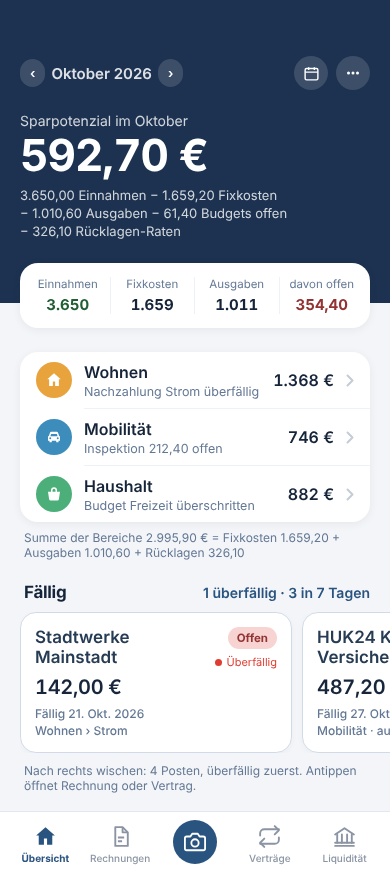
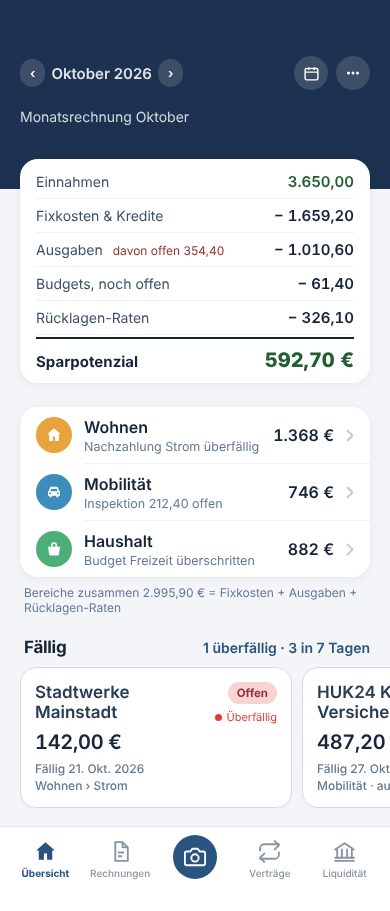
Konzept 2.0.0: Übersicht zeigt Monatsrechnung als Tabelle statt Hero-Zahl und Formeltext
Einnahmen − Fixkosten − Ausgaben (davon offen) − Budgets offen − Rücklagen-Raten = Sparpotenzial,
alles in einer Karte, antippbar zur Monatsrechnung; Wisch-Hinweis entfernt, Prüfsummen-Notiz gekürzt.

Claude-Session: https://claude.ai/code/session_0112K5J9EfnvdznECFdoQGko

diff --git a/docs/konzept-2.0.0/design/Main.dc.html b/docs/konzept-2.0.0/design/Main.dc.html
@@ -32,6 +32,14 @@ body{margin:0}
 .f .l{margin:0;font-size:14px;color:#637894;width:104px;flex:none}
 .f .v{margin:0;font-size:15px;font-weight:500;flex:1;min-width:0;white-space:normal;overflow:hidden;display:-webkit-box;-webkit-line-clamp:2;-webkit-box-orient:vertical;line-height:1.3}
 .f .v.ph{color:#9AA5B4;font-weight:400}
+.kr{display:flex;align-items:baseline;justify-content:space-between;gap:12px;padding:7px 0;border-bottom:1px solid #EEF1F5}
+.kr:last-child{border-bottom:0}
+.kr .kl{margin:0;font-size:14px;color:#3E5068;white-space:nowrap;overflow:hidden;text-overflow:ellipsis}
+.kr .ks{font-size:12px;color:#943333;margin-left:6px}
+.kr .kv{margin:0;font-size:15px;font-weight:600;font-variant-numeric:tabular-nums;white-space:nowrap}
+.kr.sum{border-top:2px solid #16243A;border-bottom:0;margin-top:2px;padding-top:9px}
+.kr.sum .kl{font-size:15px;font-weight:700;color:#16243A}
+.kr.sum .kv{font-size:20px;font-weight:800;color:#215F33}
 .f .vc{flex:1;min-width:0}
 .f .vc .v{flex:none;-webkit-line-clamp:1;white-space:nowrap;text-overflow:ellipsis;display:block}
 .f .v2{margin:2px 0 0;font-size:13px;font-weight:400;color:#637894;line-height:1.3;white-space:normal}
@@ -56,7 +64,8 @@ select.in{appearance:none;-webkit-appearance:none;padding-right:14px}
 .chev{width:8px;height:13px;flex:none}
 .cap{display:inline-flex;align-items:center;height:22px;padding:0 9px;border-radius:11px;font-size:11.5px;font-weight:700;white-space:nowrap}
 .seg{display:flex;background:#EEF1F5;border-radius:9px;padding:2px}
-.seg button{flex:1;text-align:center;font-size:13px;font-weight:600;color:#637894;padding:6px 0;border-radius:7px;border:0;background:none;font-family:inherit;cursor:pointer}
+.f .seg{flex:1;min-width:0}
+.seg button{flex:1;min-width:0;text-align:center;font-size:13px;font-weight:600;color:#637894;padding:6px 4px;white-space:nowrap;overflow:hidden;text-overflow:ellipsis;border-radius:7px;border:0;background:none;font-family:inherit;cursor:pointer}
 .seg button.on{background:#FFFFFF;color:#16243A;box-shadow:0 1px 2px rgba(0,0,0,.08)}
 .seg.dark{background:rgba(255,255,255,.14)}
 .seg.dark button{color:rgba(255,255,255,.8)}
@@ -111,19 +120,17 @@ a{color:#2A5480}
       <a href="Mehr.dc.html" aria-label="Mehr" style="width: 34px; height: 34px; border-radius: 17px; background: rgba(255,255,255,.14); color: #FFFFFF; display: inline-flex; align-items: center; justify-content: center; text-decoration: none"><svg aria-hidden="true" width="18" height="18" viewBox="0 0 24 24" fill="currentColor"><circle cx="6" cy="12" r="2"/><circle cx="12" cy="12" r="2"/><circle cx="18" cy="12" r="2"/></svg></a>
       </div>
     </div>
-    <p style="margin: 22px 0 0; font-size: 14px; opacity: .8">{{headline}}</p>
-    <p style="margin: 4px 0 0; font-size: 44px; font-weight: 700; letter-spacing: -1px; line-height: 1; font-variant-numeric: tabular-nums">{{spar}} €</p>
-    <p style="margin: 10px 0 0; font-size: 13px; opacity: .8; white-space: nowrap">{{formula}}</p>
-    <p style="margin: 2px 0 0; font-size: 13px; opacity: .8; white-space: nowrap">{{formula2}}</p>
-    <p style="margin: 2px 0 0; font-size: 13px; opacity: .8; white-space: nowrap">{{formula3}}</p>
+    <p style="margin: 18px 0 0; font-size: 14px; opacity: .8">{{headline}}</p>
   </div>
 
-  <div style="padding: 0 20px; margin-top: -40px">
-    <a href="Monatsrechnung.dc.html" class="card" style="display: grid; grid-template-columns: repeat(4, minmax(0, 1fr)); gap: 0; padding: 14px 6px; text-decoration: none; color: inherit">
-      <div style="text-align: center; border-right: 1px solid #EEF1F5"><p style="margin: 0; font-size: 11.5px; color: #637894">Einnahmen</p><p style="margin: 4px 0 0; font-size: 15px; font-weight: 700; font-variant-numeric: tabular-nums; color: #215F33">{{k.ein}}</p></div>
-      <div style="text-align: center; border-right: 1px solid #EEF1F5"><p style="margin: 0; font-size: 11.5px; color: #637894">Fixkosten</p><p style="margin: 4px 0 0; font-size: 15px; font-weight: 700; font-variant-numeric: tabular-nums">{{k.fix}}</p></div>
-      <div style="text-align: center; border-right: 1px solid #EEF1F5"><p style="margin: 0; font-size: 11.5px; color: #637894">Ausgaben</p><p style="margin: 4px 0 0; font-size: 15px; font-weight: 700; font-variant-numeric: tabular-nums">{{k.aus}}</p></div>
-      <div style="text-align: center"><p style="margin: 0; font-size: 11.5px; color: #637894">davon offen</p><p style="margin: 4px 0 0; font-size: 15px; font-weight: 700; font-variant-numeric: tabular-nums; color: #943333">{{k.offen}}</p></div>
+  <div style="padding: 0 20px; margin-top: -30px">
+    <a href="Monatsrechnung.dc.html" class="card" style="display: block; padding: 6px 16px 4px; text-decoration: none; color: inherit">
+      <div class="kr"><p class="kl">Einnahmen</p><p class="kv" style="color: #215F33">{{k.ein}}</p></div>
+      <div class="kr"><p class="kl">Fixkosten &amp; Kredite</p><p class="kv">− {{k.fix}}</p></div>
+      <div class="kr"><p class="kl">Ausgaben <span class="ks">davon offen {{k.offen}}</span></p><p class="kv">− {{k.aus}}</p></div>
+      <div class="kr"><p class="kl">Budgets, noch offen</p><p class="kv">− {{k.bud}}</p></div>
+      <div class="kr"><p class="kl">Rücklagen-Raten</p><p class="kv">− {{k.res}}</p></div>
+      <div class="kr sum"><p class="kl">{{sparLabel}}</p><p class="kv">{{spar}} €</p></div>
     </a>
   </div>
 
@@ -135,7 +142,7 @@ a{color:#2A5480}
       <div class="sep" style="margin-left: 64px"></div>
       <a class="row" href="Haushalt.dc.html" style="min-height: 56px; padding: 6px 16px"><span class="c" style="background: #4CAF7A; width: 36px; height: 36px; border-radius: 18px"><svg aria-hidden="true" width="18" height="18" viewBox="0 0 24 24" fill="currentColor"><path d="M4 9h16l-1.5 10a2 2 0 0 1-2 1.7h-9A2 2 0 0 1 5.5 19zM8 9V7a4 4 0 0 1 8 0v2h-2V7a2 2 0 0 0-4 0v2z"/></svg></span><div class="mid"><p class="n" style="font-size: 16px">Haushalt</p><p class="s" style="font-size: 12.5px">{{a.hs}}</p></div><p class="v" style="font-size: 16px">{{a.h}} €</p><svg class="chev" aria-hidden="true" viewBox="0 0 8 13" fill="none" stroke="#C4CCD6" stroke-width="2" stroke-linecap="round" stroke-linejoin="round"><path d="M1.5 1.5l5 5-5 5"/></svg></a>
     </div>
-    <p class="note">Summe der Bereiche {{sumAreas}} € = Fixkosten {{k.fix2}} + Ausgaben {{k.aus2}} + Rücklagen {{k.res}}</p>
+    <p class="note">Bereiche zusammen {{sumAreas}} € = Fixkosten + Ausgaben + Rücklagen-Raten</p>
   </div>
 
   <div style="padding: 22px 0 0 20px">
@@ -151,7 +158,6 @@ a{color:#2A5480}
         </a>
       </sc-for>
     </div>
-    <p class="note" style="margin: 10px 24px 0 4px">Nach rechts wischen: {{dueCount}} Posten, überfällig zuerst. Antippen öffnet Rechnung oder Vertrag.</p>
   </div>
 
 </div>
@@ -215,10 +221,9 @@ class Component extends DCLogic {
       monthLabel: months[m],
       prevMonth: function () { if (m < months.length - 1) self.setState({ m: m + 1 }); else self.say('Ältere Monate: Mehr › Auswertung'); },
       nextMonth: function () { if (m > 0) self.setState({ m: m - 1 }); else self.say('Oktober ist der laufende Monat'); },
-      headline: (m === 0 ? 'Sparpotenzial im ' : 'Ergebnis im ') + months[m].split(' ')[0],
-      spar: eur(spar),
-      formula: eur(d.ein) + ' Einnahmen − ' + eur(d.fix) + ' Fixkosten', formula2: '− ' + eur(aus) + ' Ausgaben − ' + eur(d.bud) + ' Budgets offen', formula3: '− ' + eur(d.res) + ' Rücklagen-Raten',
-      k: { ein: eur(d.ein, 0), fix: eur(d.fix, 0), aus: eur(aus, 0), offen: eur(d.off), fix2: eur(d.fix), aus2: eur(aus), res: eur(d.res) },
+      headline: 'Monatsrechnung ' + months[m].split(' ')[0],
+      spar: eur(spar), sparLabel: m === 0 ? 'Sparpotenzial' : 'Ergebnis',
+      k: { ein: eur(d.ein), fix: eur(d.fix), aus: eur(aus), offen: eur(d.off), bud: eur(d.bud), fix2: eur(d.fix), aus2: eur(aus), res: eur(d.res) },
       a: { ws: d.ws, ms: d.ms, hs: d.hs, w: eur(d.w, 0), mo: eur(d.mo, 0), h: eur(d.h, 0) },
       sumAreas: eur(d.w + d.mo + d.h),
       due: due,

diff --git a/docs/konzept-2.0.0/design/Akte.dc.html b/docs/konzept-2.0.0/design/Akte.dc.html
@@ -32,6 +32,14 @@ body{margin:0}
 .f .l{margin:0;font-size:14px;color:#637894;width:104px;flex:none}
 .f .v{margin:0;font-size:15px;font-weight:500;flex:1;min-width:0;white-space:normal;overflow:hidden;display:-webkit-box;-webkit-line-clamp:2;-webkit-box-orient:vertical;line-height:1.3}
 .f .v.ph{color:#9AA5B4;font-weight:400}
+.kr{display:flex;align-items:baseline;justify-content:space-between;gap:12px;padding:7px 0;border-bottom:1px solid #EEF1F5}
+.kr:last-child{border-bottom:0}
+.kr .kl{margin:0;font-size:14px;color:#3E5068;white-space:nowrap;overflow:hidden;text-overflow:ellipsis}
+.kr .ks{font-size:12px;color:#943333;margin-left:6px}
+.kr .kv{margin:0;font-size:15px;font-weight:600;font-variant-numeric:tabular-nums;white-space:nowrap}
+.kr.sum{border-top:2px solid #16243A;border-bottom:0;margin-top:2px;padding-top:9px}
+.kr.sum .kl{font-size:15px;font-weight:700;color:#16243A}
+.kr.sum .kv{font-size:20px;font-weight:800;color:#215F33}
 .f .vc{flex:1;min-width:0}
 .f .vc .v{flex:none;-webkit-line-clamp:1;white-space:nowrap;text-overflow:ellipsis;display:block}
 .f .v2{margin:2px 0 0;font-size:13px;font-weight:400;color:#637894;line-height:1.3;white-space:normal}
@@ -56,7 +64,8 @@ select.in{appearance:none;-webkit-appearance:none;padding-right:14px}
 .chev{width:8px;height:13px;flex:none}
 .cap{display:inline-flex;align-items:center;height:22px;padding:0 9px;border-radius:11px;font-size:11.5px;font-weight:700;white-space:nowrap}
 .seg{display:flex;background:#EEF1F5;border-radius:9px;padding:2px}
-.seg button{flex:1;text-align:center;font-size:13px;font-weight:600;color:#637894;padding:6px 0;border-radius:7px;border:0;background:none;font-family:inherit;cursor:pointer}
+.f .seg{flex:1;min-width:0}
+.seg button{flex:1;min-width:0;text-align:center;font-size:13px;font-weight:600;color:#637894;padding:6px 4px;white-space:nowrap;overflow:hidden;text-overflow:ellipsis;border-radius:7px;border:0;background:none;font-family:inherit;cursor:pointer}
 .seg button.on{background:#FFFFFF;color:#16243A;box-shadow:0 1px 2px rgba(0,0,0,.08)}
 .seg.dark{background:rgba(255,255,255,.14)}
 .seg.dark button{color:rgba(255,255,255,.8)}

diff --git a/docs/konzept-2.0.0/design/Haushalt.dc.html b/docs/konzept-2.0.0/design/Haushalt.dc.html
@@ -32,6 +32,14 @@ body{margin:0}
 .f .l{margin:0;font-size:14px;color:#637894;width:104px;flex:none}
 .f .v{margin:0;font-size:15px;font-weight:500;flex:1;min-width:0;white-space:normal;overflow:hidden;display:-webkit-box;-webkit-line-clamp:2;-webkit-box-orient:vertical;line-height:1.3}
 .f .v.ph{color:#9AA5B4;font-weight:400}
+.kr{display:flex;align-items:baseline;justify-content:space-between;gap:12px;padding:7px 0;border-bottom:1px solid #EEF1F5}
+.kr:last-child{border-bottom:0}
+.kr .kl{margin:0;font-size:14px;color:#3E5068;white-space:nowrap;overflow:hidden;text-overflow:ellipsis}
+.kr .ks{font-size:12px;color:#943333;margin-left:6px}
+.kr .kv{margin:0;font-size:15px;font-weight:600;font-variant-numeric:tabular-nums;white-space:nowrap}
+.kr.sum{border-top:2px solid #16243A;border-bottom:0;margin-top:2px;padding-top:9px}
+.kr.sum .kl{font-size:15px;font-weight:700;color:#16243A}
+.kr.sum .kv{font-size:20px;font-weight:800;color:#215F33}
 .f .vc{flex:1;min-width:0}
 .f .vc .v{flex:none;-webkit-line-clamp:1;white-space:nowrap;text-overflow:ellipsis;display:block}
 .f .v2{margin:2px 0 0;font-size:13px;font-weight:400;color:#637894;line-height:1.3;white-space:normal}
@@ -56,7 +64,8 @@ select.in{appearance:none;-webkit-appearance:none;padding-right:14px}
 .chev{width:8px;height:13px;flex:none}
 .cap{display:inline-flex;align-items:center;height:22px;padding:0 9px;border-radius:11px;font-size:11.5px;font-weight:700;white-space:nowrap}
 .seg{display:flex;background:#EEF1F5;border-radius:9px;padding:2px}
-.seg button{flex:1;text-align:center;font-size:13px;font-weight:600;color:#637894;padding:6px 0;border-radius:7px;border:0;background:none;font-family:inherit;cursor:pointer}
+.f .seg{flex:1;min-width:0}
+.seg button{flex:1;min-width:0;text-align:center;font-size:13px;font-weight:600;color:#637894;padding:6px 4px;white-space:nowrap;overflow:hidden;text-overflow:ellipsis;border-radius:7px;border:0;background:none;font-family:inherit;cursor:pointer}
 .seg button.on{background:#FFFFFF;color:#16243A;box-shadow:0 1px 2px rgba(0,0,0,.08)}
 .seg.dark{background:rgba(255,255,255,.14)}
 .seg.dark button{color:rgba(255,255,255,.8)}

diff --git a/docs/konzept-2.0.0/design/Wohnen.dc.html b/docs/konzept-2.0.0/design/Wohnen.dc.html
@@ -32,6 +32,14 @@ body{margin:0}
 .f .l{margin:0;font-size:14px;color:#637894;width:104px;flex:none}
 .f .v{margin:0;font-size:15px;font-weight:500;flex:1;min-width:0;white-space:normal;overflow:hidden;display:-webkit-box;-webkit-line-clamp:2;-webkit-box-orient:vertical;line-height:1.3}
 .f .v.ph{color:#9AA5B4;font-weight:400}
+.kr{display:flex;align-items:baseline;justify-content:space-between;gap:12px;padding:7px 0;border-bottom:1px solid #EEF1F5}
+.kr:last-child{border-bottom:0}
+.kr .kl{margin:0;font-size:14px;color:#3E5068;white-space:nowrap;overflow:hidden;text-overflow:ellipsis}
+.kr .ks{font-size:12px;color:#943333;margin-left:6px}
+.kr .kv{margin:0;font-size:15px;font-weight:600;font-variant-numeric:tabular-nums;white-space:nowrap}
+.kr.sum{border-top:2px solid #16243A;border-bottom:0;margin-top:2px;padding-top:9px}
+.kr.sum .kl{font-size:15px;font-weight:700;color:#16243A}
+.kr.sum .kv{font-size:20px;font-weight:800;color:#215F33}
 .f .vc{flex:1;min-width:0}
 .f .vc .v{flex:none;-webkit-line-clamp:1;white-space:nowrap;text-overflow:ellipsis;display:block}
 .f .v2{margin:2px 0 0;font-size:13px;font-weight:400;color:#637894;line-height:1.3;white-space:normal}
@@ -56,7 +64,8 @@ select.in{appearance:none;-webkit-appearance:none;padding-right:14px}
 .chev{width:8px;height:13px;flex:none}
 .cap{display:inline-flex;align-items:center;height:22px;padding:0 9px;border-radius:11px;font-size:11.5px;font-weight:700;white-space:nowrap}
 .seg{display:flex;background:#EEF1F5;border-radius:9px;padding:2px}
-.seg button{flex:1;text-align:center;font-size:13px;font-weight:600;color:#637894;padding:6px 0;border-radius:7px;border:0;background:none;font-family:inherit;cursor:pointer}
+.f .seg{flex:1;min-width:0}
+.seg button{flex:1;min-width:0;text-align:center;font-size:13px;font-weight:600;color:#637894;padding:6px 4px;white-space:nowrap;overflow:hidden;text-overflow:ellipsis;border-radius:7px;border:0;background:none;font-family:inherit;cursor:pointer}
 .seg button.on{background:#FFFFFF;color:#16243A;box-shadow:0 1px 2px rgba(0,0,0,.08)}
 .seg.dark{background:rgba(255,255,255,.14)}
 .seg.dark button{color:rgba(255,255,255,.8)}

diff --git a/docs/konzept-2.0.0/design/Auswertung.dc.html b/docs/konzept-2.0.0/design/Auswertung.dc.html
@@ -32,6 +32,14 @@ body{margin:0}
 .f .l{margin:0;font-size:14px;color:#637894;width:104px;flex:none}
 .f .v{margin:0;font-size:15px;font-weight:500;flex:1;min-width:0;white-space:normal;overflow:hidden;display:-webkit-box;-webkit-line-clamp:2;-webkit-box-orient:vertical;line-height:1.3}
 .f .v.ph{color:#9AA5B4;font-weight:400}
+.kr{display:flex;align-items:baseline;justify-content:space-between;gap:12px;padding:7px 0;border-bottom:1px solid #EEF1F5}
+.kr:last-child{border-bottom:0}
+.kr .kl{margin:0;font-size:14px;color:#3E5068;white-space:nowrap;overflow:hidden;text-overflow:ellipsis}
+.kr .ks{font-size:12px;color:#943333;margin-left:6px}
+.kr .kv{margin:0;font-size:15px;font-weight:600;font-variant-numeric:tabular-nums;white-space:nowrap}
+.kr.sum{border-top:2px solid #16243A;border-bottom:0;margin-top:2px;padding-top:9px}
+.kr.sum .kl{font-size:15px;font-weight:700;color:#16243A}
+.kr.sum .kv{font-size:20px;font-weight:800;color:#215F33}
 .f .vc{flex:1;min-width:0}
 .f .vc .v{flex:none;-webkit-line-clamp:1;white-space:nowrap;text-overflow:ellipsis;display:block}
 .f .v2{margin:2px 0 0;font-size:13px;font-weight:400;color:#637894;line-height:1.3;white-space:normal}

diff --git a/docs/konzept-2.0.0/design/Budgets.dc.html b/docs/konzept-2.0.0/design/Budgets.dc.html
@@ -32,6 +32,14 @@ body{margin:0}
 .f .l{margin:0;font-size:14px;color:#637894;width:104px;flex:none}
 .f .v{margin:0;font-size:15px;font-weight:500;flex:1;min-width:0;white-space:normal;overflow:hidden;display:-webkit-box;-webkit-line-clamp:2;-webkit-box-orient:vertical;line-height:1.3}
 .f .v.ph{color:#9AA5B4;font-weight:400}
+.kr{display:flex;align-items:baseline;justify-content:space-between;gap:12px;padding:7px 0;border-bottom:1px solid #EEF1F5}
+.kr:last-child{border-bottom:0}
+.kr .kl{margin:0;font-size:14px;color:#3E5068;white-space:nowrap;overflow:hidden;text-overflow:ellipsis}
+.kr .ks{font-size:12px;color:#943333;margin-left:6px}
+.kr .kv{margin:0;font-size:15px;font-weight:600;font-variant-numeric:tabular-nums;white-space:nowrap}
+.kr.sum{border-top:2px solid #16243A;border-bottom:0;margin-top:2px;padding-top:9px}
+.kr.sum .kl{font-size:15px;font-weight:700;color:#16243A}
+.kr.sum .kv{font-size:20px;font-weight:800;color:#215F33}
 .f .vc{flex:1;min-width:0}
 .f .vc .v{flex:none;-webkit-line-clamp:1;white-space:nowrap;text-overflow:ellipsis;display:block}
 .f .v2{margin:2px 0 0;font-size:13px;font-weight:400;color:#637894;line-height:1.3;white-space:normal}

diff --git a/docs/konzept-2.0.0/design/Dokumente.dc.html b/docs/konzept-2.0.0/design/Dokumente.dc.html
@@ -32,6 +32,14 @@ body{margin:0}
 .f .l{margin:0;font-size:14px;color:#637894;width:104px;flex:none}
 .f .v{margin:0;font-size:15px;font-weight:500;flex:1;min-width:0;white-space:normal;overflow:hidden;display:-webkit-box;-webkit-line-clamp:2;-webkit-box-orient:vertical;line-height:1.3}
 .f .v.ph{color:#9AA5B4;font-weight:400}
+.kr{display:flex;align-items:baseline;justify-content:space-between;gap:12px;padding:7px 0;border-bottom:1px solid #EEF1F5}
+.kr:last-child{border-bottom:0}
+.kr .kl{margin:0;font-size:14px;color:#3E5068;white-space:nowrap;overflow:hidden;text-overflow:ellipsis}
+.kr .ks{font-size:12px;color:#943333;margin-left:6px}
+.kr .kv{margin:0;font-size:15px;font-weight:600;font-variant-numeric:tabular-nums;white-space:nowrap}
+.kr.sum{border-top:2px solid #16243A;border-bottom:0;margin-top:2px;padding-top:9px}
+.kr.sum .kl{font-size:15px;font-weight:700;color:#16243A}
+.kr.sum .kv{font-size:20px;font-weight:800;color:#215F33}
 .f .vc{flex:1;min-width:0}
 .f .vc .v{flex:none;-webkit-line-clamp:1;white-space:nowrap;text-overflow:ellipsis;display:block}
 .f .v2{margin:2px 0 0;font-size:13px;font-weight:400;color:#637894;line-height:1.3;white-space:normal}

diff --git a/docs/konzept-2.0.0/design/Einnahmen.dc.html b/docs/konzept-2.0.0/design/Einnahmen.dc.html
@@ -32,6 +32,14 @@ body{margin:0}
 .f .l{margin:0;font-size:14px;color:#637894;width:104px;flex:none}
 .f .v{margin:0;font-size:15px;font-weight:500;flex:1;min-width:0;white-space:normal;overflow:hidden;display:-webkit-box;-webkit-line-clamp:2;-webkit-box-orient:vertical;line-height:1.3}
 .f .v.ph{color:#9AA5B4;font-weight:400}
+.kr{display:flex;align-items:baseline;justify-content:space-between;gap:12px;padding:7px 0;border-bottom:1px solid #EEF1F5}
+.kr:last-child{border-bottom:0}
+.kr .kl{margin:0;font-size:14px;color:#3E5068;white-space:nowrap;overflow:hidden;text-overflow:ellipsis}
+.kr .ks{font-size:12px;color:#943333;margin-left:6px}
+.kr .kv{margin:0;font-size:15px;font-weight:600;font-variant-numeric:tabular-nums;white-space:nowrap}
+.kr.sum{border-top:2px solid #16243A;border-bottom:0;margin-top:2px;padding-top:9px}
+.kr.sum .kl{font-size:15px;font-weight:700;color:#16243A}
+.kr.sum .kv{font-size:20px;font-weight:800;color:#215F33}
 .f .vc{flex:1;min-width:0}
 .f .vc .v{flex:none;-webkit-line-clamp:1;white-space:nowrap;text-overflow:ellipsis;display:block}
 .f .v2{margin:2px 0 0;font-size:13px;font-weight:400;color:#637894;line-height:1.3;white-space:normal}

diff --git a/docs/konzept-2.0.0/design/Einstellungen.dc.html b/docs/konzept-2.0.0/design/Einstellungen.dc.html
@@ -32,6 +32,14 @@ body{margin:0}
 .f .l{margin:0;font-size:14px;color:#637894;width:104px;flex:none}
 .f .v{margin:0;font-size:15px;font-weight:500;flex:1;min-width:0;white-space:normal;overflow:hidden;display:-webkit-box;-webkit-line-clamp:2;-webkit-box-orient:vertical;line-height:1.3}
 .f .v.ph{color:#9AA5B4;font-weight:400}
+.kr{display:flex;align-items:baseline;justify-content:space-between;gap:12px;padding:7px 0;border-bottom:1px solid #EEF1F5}
+.kr:last-child{border-bottom:0}
+.kr .kl{margin:0;font-size:14px;color:#3E5068;white-space:nowrap;overflow:hidden;text-overflow:ellipsis}
+.kr .ks{font-size:12px;color:#943333;margin-left:6px}
+.kr .kv{margin:0;font-size:15px;font-weight:600;font-variant-numeric:tabular-nums;white-space:nowrap}
+.kr.sum{border-top:2px solid #16243A;border-bottom:0;margin-top:2px;padding-top:9px}
+.kr.sum .kl{font-size:15px;font-weight:700;color:#16243A}
+.kr.sum .kv{font-size:20px;font-weight:800;color:#215F33}
 .f .vc{flex:1;min-width:0}
 .f .vc .v{flex:none;-webkit-line-clamp:1;white-space:nowrap;text-overflow:ellipsis;display:block}
 .f .v2{margin:2px 0 0;font-size:13px;font-weight:400;color:#637894;line-height:1.3;white-space:normal}

diff --git a/docs/konzept-2.0.0/design/Erfassen.dc.html b/docs/konzept-2.0.0/design/Erfassen.dc.html
@@ -32,6 +32,14 @@ body{margin:0}
 .f .l{margin:0;font-size:14px;color:#637894;width:104px;flex:none}
 .f .v{margin:0;font-size:15px;font-weight:500;flex:1;min-width:0;white-space:normal;overflow:hidden;display:-webkit-box;-webkit-line-clamp:2;-webkit-box-orient:vertical;line-height:1.3}
 .f .v.ph{color:#9AA5B4;font-weight:400}
+.kr{display:flex;align-items:baseline;justify-content:space-between;gap:12px;padding:7px 0;border-bottom:1px solid #EEF1F5}
+.kr:last-child{border-bottom:0}
+.kr .kl{margin:0;font-size:14px;color:#3E5068;white-space:nowrap;overflow:hidden;text-overflow:ellipsis}
+.kr .ks{font-size:12px;color:#943333;margin-left:6px}
+.kr .kv{margin:0;font-size:15px;font-weight:600;font-variant-numeric:tabular-nums;white-space:nowrap}
+.kr.sum{border-top:2px solid #16243A;border-bottom:0;margin-top:2px;padding-top:9px}
+.kr.sum .kl{font-size:15px;font-weight:700;color:#16243A}
+.kr.sum .kv{font-size:20px;font-weight:800;color:#215F33}
 .f .vc{flex:1;min-width:0}
 .f .vc .v{flex:none;-webkit-line-clamp:1;white-space:nowrap;text-overflow:ellipsis;display:block}
 .f .v2{margin:2px 0 0;font-size:13px;font-weight:400;color:#637894;line-height:1.3;white-space:normal}

diff --git a/docs/konzept-2.0.0/design/Kalender.dc.html b/docs/konzept-2.0.0/design/Kalender.dc.html
@@ -32,6 +32,14 @@ body{margin:0}
 .f .l{margin:0;font-size:14px;color:#637894;width:104px;flex:none}
 .f .v{margin:0;font-size:15px;font-weight:500;flex:1;min-width:0;white-space:normal;overflow:hidden;display:-webkit-box;-webkit-line-clamp:2;-webkit-box-orient:vertical;line-height:1.3}
 .f .v.ph{color:#9AA5B4;font-weight:400}
+.kr{display:flex;align-items:baseline;justify-content:space-between;gap:12px;padding:7px 0;border-bottom:1px solid #EEF1F5}
+.kr:last-child{border-bottom:0}
+.kr .kl{margin:0;font-size:14px;color:#3E5068;white-space:nowrap;overflow:hidden;text-overflow:ellipsis}
+.kr .ks{font-size:12px;color:#943333;margin-left:6px}
+.kr .kv{margin:0;font-size:15px;font-weight:600;font-variant-numeric:tabular-nums;white-space:nowrap}
+.kr.sum{border-top:2px solid #16243A;border-bottom:0;margin-top:2px;padding-top:9px}
+.kr.sum .kl{font-size:15px;font-weight:700;color:#16243A}
+.kr.sum .kv{font-size:20px;font-weight:800;color:#215F33}
 .f .vc{flex:1;min-width:0}
 .f .vc .v{flex:none;-webkit-line-clamp:1;white-space:nowrap;text-overflow:ellipsis;display:block}
 .f .v2{margin:2px 0 0;font-size:13px;font-weight:400;color:#637894;line-height:1.3;white-space:normal}

diff --git a/docs/konzept-2.0.0/design/Kasse.dc.html b/docs/konzept-2.0.0/design/Kasse.dc.html
@@ -32,6 +32,14 @@ body{margin:0}
 .f .l{margin:0;font-size:14px;color:#637894;width:104px;flex:none}
 .f .v{margin:0;font-size:15px;font-weight:500;flex:1;min-width:0;white-space:normal;overflow:hidden;display:-webkit-box;-webkit-line-clamp:2;-webkit-box-orient:vertical;line-height:1.3}
 .f .v.ph{color:#9AA5B4;font-weight:400}
+.kr{display:flex;align-items:baseline;justify-content:space-between;gap:12px;padding:7px 0;border-bottom:1px solid #EEF1F5}
+.kr:last-child{border-bottom:0}
+.kr .kl{margin:0;font-size:14px;color:#3E5068;white-space:nowrap;overflow:hidden;text-overflow:ellipsis}
+.kr .ks{font-size:12px;color:#943333;margin-left:6px}
+.kr .kv{margin:0;font-size:15px;font-weight:600;font-variant-numeric:tabular-nums;white-space:nowrap}
+.kr.sum{border-top:2px solid #16243A;border-bottom:0;margin-top:2px;padding-top:9px}
+.kr.sum .kl{font-size:15px;font-weight:700;color:#16243A}
+.kr.sum .kv{font-size:20px;font-weight:800;color:#215F33}
 .f .vc{flex:1;min-width:0}
 .f .vc .v{flex:none;-webkit-line-clamp:1;white-space:nowrap;text-overflow:ellipsis;display:block}
 .f .v2{margin:2px 0 0;font-size:13px;font-weight:400;color:#637894;line-height:1.3;white-space:normal}
